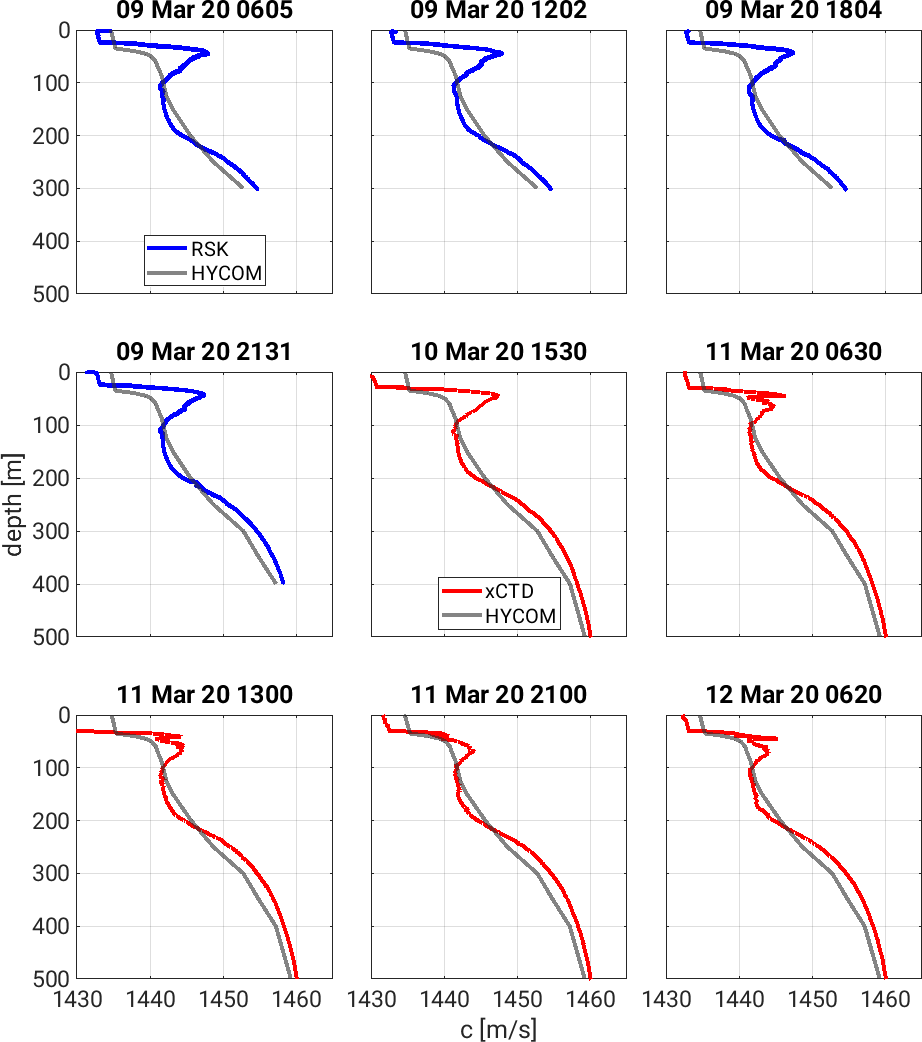
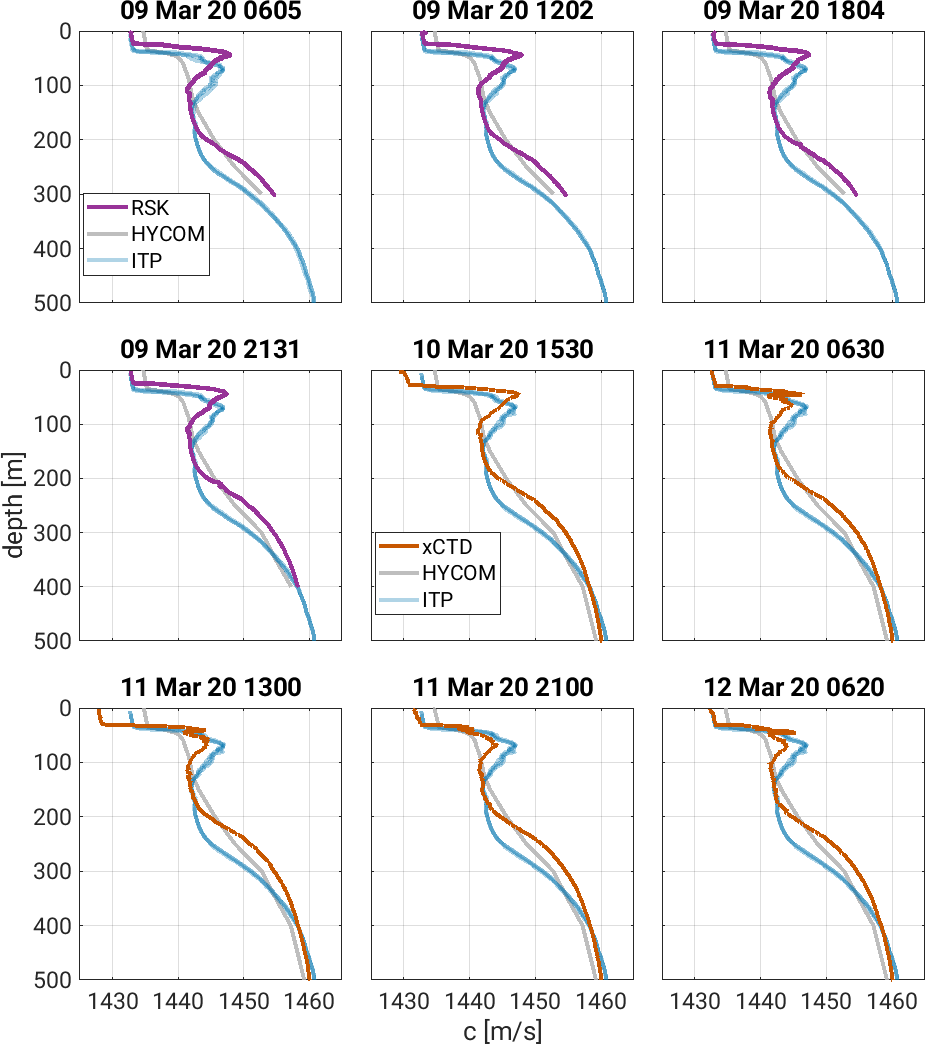
added ITP code + better color scheme

diff --git a/make_env_plots_3x3.m b/make_env_plots_3x3.m
@@ -5,13 +5,12 @@
 %% prep workspace
 clear; clc;
 
-%% load data
+%% load CTD data
 
-% load Bradli's CTDs
 load('~/.dropboxmit/icex_2020_mat/bradli_casts_cleaned_ecb.mat');
 request_lat = 71.183; request_lon = -142.405 + 360;
 
-% prep HYCOM
+%% prep HYCOM
 hycom_file_path = '~/.dropboxmit/icex_2020_mat/hycom-files/ts3z-hindcast-Mar3-Mar13.nc4';
 hycom_lon = ncread(hycom_file_path,'lon');
 hycom_lat = ncread(hycom_file_path,'lat');
@@ -25,14 +24,37 @@ for tt = 1:length(hycom_time)
 end
 clear tt;
 
+%% prep ITPs --- ITP103 and ITP119
 
-%% make transect style plot
-% transect(x,t,v) --- x = array, d = cell array, v = cell array
+listing = dir('~/.dropboxmit/icex_2020_mat/itp-files/itp*grd*.dat');
 
+itp_search.filepath = strings(length(listing),1);
+itp_search.lon = zeros(length(listing),1);
+itp_search.lat = zeros(length(listing),1);
+itp_search.time = zeros(length(listing),1);
+
+% make list of locations, times, and paths
+for cc = 1:length(listing)
+    dat_file_path = fullfile(listing(cc).folder, listing(cc).name);
+    
+    itp_search.filepath(cc)   = dat_file_path;
+    info                        = itp_import_loc(dat_file_path);
+    
+    itp_search.lon(cc)        = info.lon;
+    itp_search.lat(cc)        = info.lat;
+    itp_search.time(cc)       = datenum([info.year 0 info.day 0 0 0]);
+end
+
+num_check = 3;
+itp_c = cell(length(CTD),num_check);
+itp_z = cell(length(CTD),num_check);
+
+
+%% loop through CTDs
 for p = 1:length(CTD)
     
     %% ctd info
-    ind_below = find(CTD(p).raw_z > 1);
+    ind_below = find(CTD(p).raw_z > 2);
     
     ctd_z{p} = CTD(p).raw_z(ind_below);
     ctd_c{p} = CTD(p).raw_c(ind_below);
@@ -41,7 +63,7 @@ for p = 1:length(CTD)
     request_depth = max(CTD(p).raw_z);
     request_time = datenum(ctd_t(p));
     
-    %% hycom info    
+    %% hycom info
     idx_lat = find_start(hycom_lat,request_lat);
     idx_lon = find_start(hycom_lon,request_lon);
     idx_z = find_start(hycom_depth,request_depth);
@@ -79,7 +101,41 @@ for p = 1:length(CTD)
     hycom_z{p} = squeeze(zmat(1,1,:,1));
     hycom_c{p} = Cq;
     
+    %% itp info
+    
+    % pick "nearest neighbor" by z-score
+    
+    z_lat = abs((itp_search.lat - request_lat)./std(itp_search.lat));
+    z_lon = abs((itp_search.lon - (request_lon - 360))./std(itp_search.lon));
+    z_time = abs((itp_search.time - request_time)./std(itp_search.time));
+    
+    z_total = 5.*z_time + z_lat + z_lon;
+    [B,best_index] = sort(z_total,'ascend');
+    
+    count = 0;
+    for lp = 1:num_check
+        num_obs = 0;
+        while (num_obs < 200)
+            count = count + 1;
+            [~,~,pressure,temp,salinity,~] = importfile_itp(itp_search.filepath(best_index(count)));
+            num_obs = length(pressure);
+            
+            itp_z{p,lp} = pressureToDepth(pressure,itp_search.lat(best_index(count)));
+            itp_c{p,lp} = snd_spd(pressure,temp,salinity,'chen');
+            
+            best_itp_lat(p,lp) = itp_search.lat(best_index(count));
+            best_itp_lon(p,lp) = itp_search.lon(best_index(count));
+            best_itp_time(p,lp) = itp_search.time(best_index(count));
+            best_itp_filename(p,lp) = itp_search.filepath(best_index(count));
+        end
+    end
+    
+    
+    
+    
 end
+
+%% write to a figure
 
 figure(1); clf;
 ha = tight_subplot(3,3,[.06 .03],[.1 .05],[.1 .02]);
@@ -89,17 +145,18 @@ for p = 1:9
     % get figure
     axes(ha(p));
     
-    % itp color -- [5 119 177]./256;
-    
-    if strcmp(CTD(p).type,'rsk');
+    if strcmp(CTD(p).type,'rsk')
         color = [153 51 153]./256;
-    elseif strcmp(CTD(p).type,'xctd');
+    elseif strcmp(CTD(p).type,'xctd')
         color = [200 87 0]./256;
     end
     
-    p1 = plot(hycom_c{p},hycom_z{p},'color',[181 181 181]./256,'linewidth',3);
+    p_hycom = plot(hycom_c{p},hycom_z{p},'color',[181 181 181 220]./256,'linewidth',3);
     hold on
-    p2 = plot(ctd_c{p},ctd_z{p},'color',color,'linewidth',3);
+    for lp = 1:num_check
+        p_itp = plot(itp_c{p,lp},itp_z{p,lp},'color',[5 119 177 80]./256,'linewidth',3);
+    end
+    p_ctd = plot(ctd_c{p},ctd_z{p},'-','color',color,'linewidth',3);
     hold off
     
     beautify_plot();
@@ -122,9 +179,9 @@ for p = 1:9
     end
     
     if p == 1
-        legend([p2 p1],'RSK','HYCOM','location','best')
+        legend([p_ctd p_hycom p_itp],'RSK','HYCOM','ITP','location','best')
     elseif p==5
-        legend([p2 p1],'xCTD','HYCOM','location','best');
+        legend([p_ctd p_hycom p_itp],'xCTD','HYCOM','ITP','location','best');
     end
 end
 
